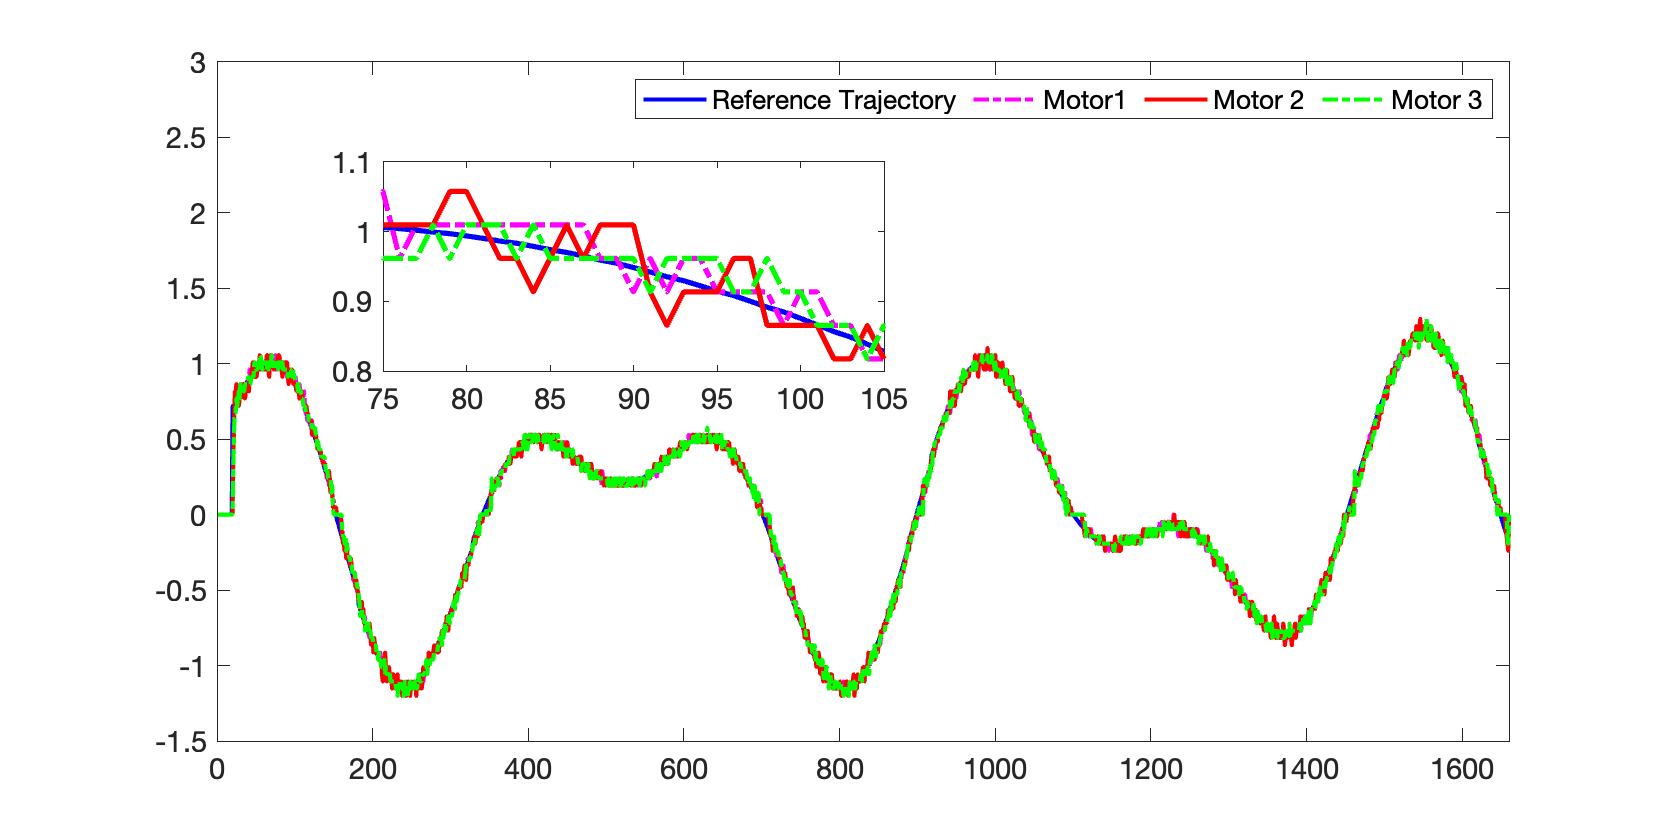
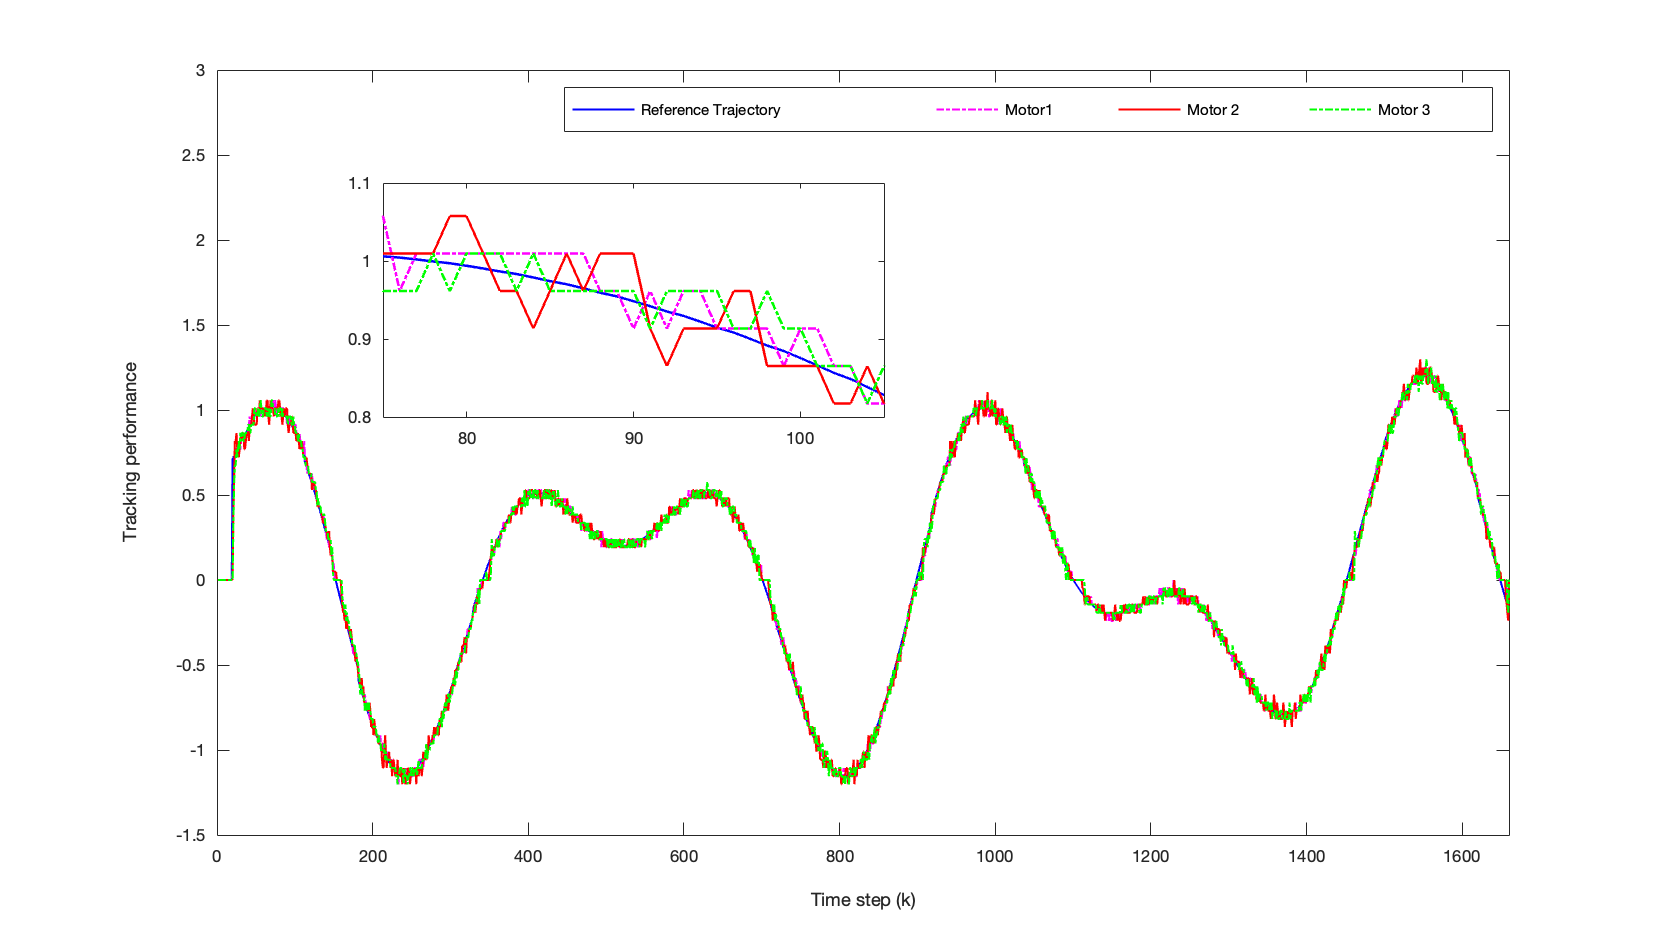
asdad

diff --git a/data_plot.m b/data_plot.m
@@ -3,6 +3,7 @@ close all;
 
 % Define parameters
 file_path = 'dataplot.txt'; % Replace with your file's path
+font_size = 16;
 
 % Load the content of the data
 file_content = fileread(file_path);
@@ -36,7 +37,7 @@ if ~isempty(ch3_data_match) && ~isempty(ch1_data_match) && ~isempty(ch2_data_mat
     fprintf('MSE for Motor 3 (CH2 - CH4): %.10e\n', mse3);
     
     % Plot the data
-    figure('Position', [100, 100, 800, 400]);
+    figure('Position', [100, 100, 800, 450]);
     plot(ch2_data, '-', 'LineWidth', 2, 'Color', 'blue', 'MarkerSize', 4.5, 'DisplayName', 'Reference Trajectory');
     hold on;
     plot(ch1_data, '-.m', 'LineWidth', 2, 'MarkerSize', 5.5, 'DisplayName', 'Motor1');
@@ -46,10 +47,10 @@ if ~isempty(ch3_data_match) && ~isempty(ch1_data_match) && ~isempty(ch2_data_mat
     
     % Set plot limits and labels
     xlim([0, 1660]);
-    % xlabel('Time step', 'FontSize', 14);
-    % ylabel('Output', 'FontSize', 14);
+    xlabel('Time step (k)', 'FontSize', font_size);
+    ylabel('Tracking performance', 'FontSize', font_size);
     ylim([-1.5 3]); % Y-axis limits for Agent 4
-    set(gca, 'FontSize', 14);
+    set(gca, 'FontSize', font_size);
     
     % Add legend
     legend('show','orientation','horizontal');
@@ -64,7 +65,7 @@ if ~isempty(ch3_data_match) && ~isempty(ch1_data_match) && ~isempty(ch2_data_mat
     plot(ch4_data, '-.g', 'LineWidth', 2.5);
     xlim([zoom_x_start zoom_x_end]);
     % yticks([-0.4,0,0.2]);
-    set(gca, 'FontSize', 14);
+    set(gca, 'FontSize', font_size);
     
     % Save the plot
     print('-dpng', 'motor_plot.png');
